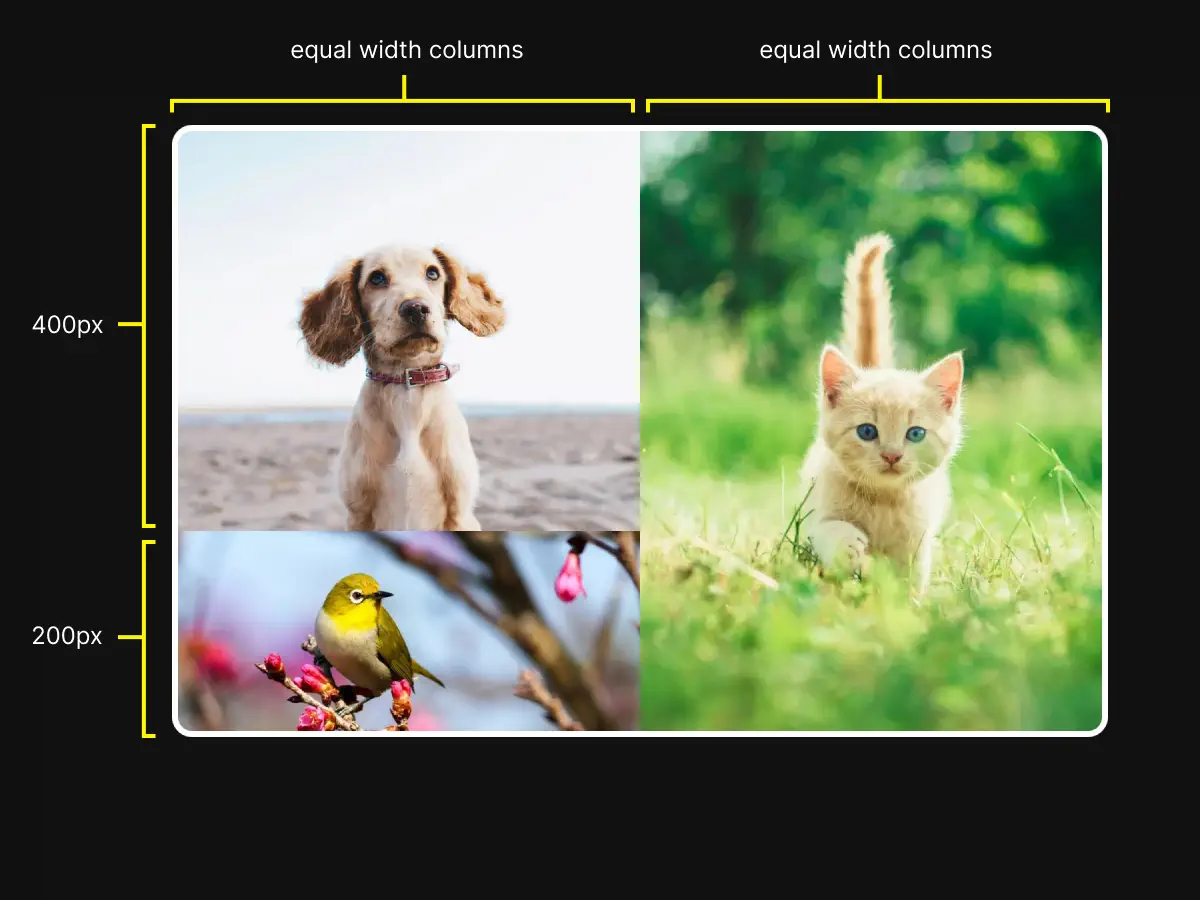
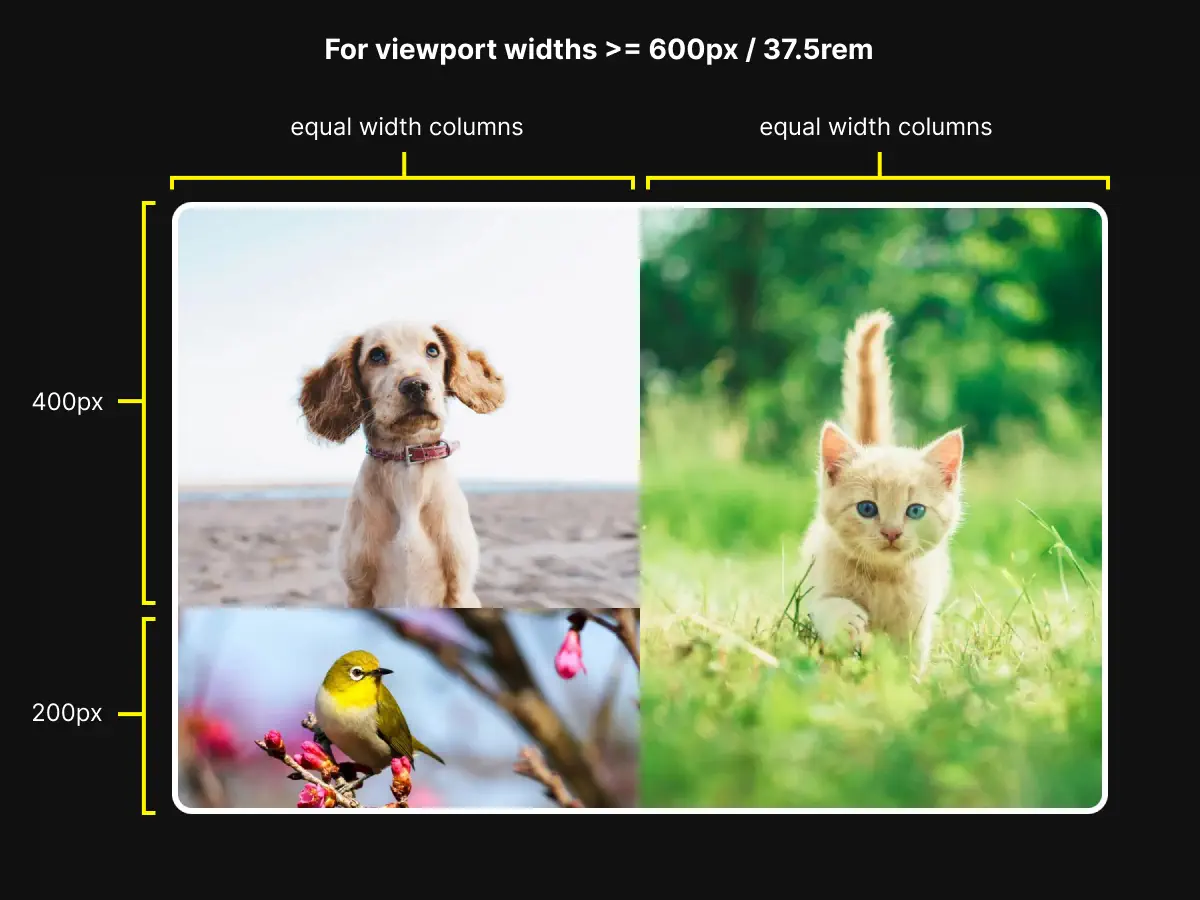
Practice 3 tweaks

diff --git a/practice-3/solution/style.css b/practice-3/solution/style.css
@@ -17,6 +17,7 @@ body {
 }
 
 img {
+  display: block;
   max-width: 100%;
   height: auto;
 }
@@ -37,34 +38,28 @@ img {
 .bento {
   display: grid;
   grid-template-rows: repeat(3, 200px);
-  grid-template-areas:
-    "cat"
-    "dog"
-    "bird";
+  grid-template-areas: "cat" "dog" "bird";
 
   @media (width >= 37.5rem) {
     grid-template-columns: repeat(2, 1fr);
-    grid-template-rows: repeat(3, 200px);
-    grid-template-areas:
-      "dog cat"
-      "dog cat"
-      "bird cat";
+    grid-template-rows: 400px 200px;
+    grid-template-areas: "dog cat" "bird cat";
   }
 
   img {
     height: 100%;
     object-fit: cover;
   }
-}
 
-.dog {
-  grid-area: dog;
-}
+  .cat {
+    grid-area: cat;
+  }
 
-.cat {
-  grid-area: cat;
-}
+  .dog {
+    grid-area: dog;
+  }
 
-.bird {
-  grid-area: bird;
+  .bird {
+    grid-area: bird;
+  }
 }

diff --git a/practice-3/problem/style.css b/practice-3/problem/style.css
@@ -17,6 +17,7 @@ body {
 }
 
 img {
+  display: block;
   max-width: 100%;
   height: auto;
 }
@@ -32,4 +33,33 @@ img {
   border: 6px solid #fff;
   border-radius: 20px;
   overflow: hidden;
+}
+
+.bento {
+  display: grid;
+  grid-template-rows: repeat(3, 200px);
+  grid-template-areas: "cat" "dog" "bird";
+
+  @media (width >= 37.5rem) {
+    grid-template-columns: repeat(2, 1fr);
+    grid-template-rows: 400px 200px;
+    grid-template-areas: "dog cat" "bird cat";
+  }
+
+  img {
+    height: 100%;
+    object-fit: cover;
+  }
+
+  .cat {
+    grid-area: cat;
+  }
+
+  .dog {
+    grid-area: dog;
+  }
+
+  .bird {
+    grid-area: bird;
+  }
 }

diff --git a/practice-3/problem/index.html b/practice-3/problem/index.html
@@ -17,9 +17,8 @@
       <img src="../dog.webp" alt="dog" class="dog" width="976" height="953">
       <img src="../bird.webp" alt="bird" class="bird" width="667" height="1000">
     </div>
+
   </section>
-
-
 
 </body>
 

diff --git a/practice-3/README1ST.md b/practice-3/README1ST.md
@@ -8,11 +8,13 @@ You shouldn't need to make any changes in the HTML, and you only need to worry a
 
 Mockups for how the final layout should look are in the "mockups" folder.
 
+Finished code is in the "solution" folder.
+
 ## Functional Requirements
 
 On mobile, the 3 images should be in 1 column, and each image is 200px tall.
 
-On desktop, the images will be in a bento layout, with 2 columns of equal width.
+On widths greater than 600px / 37.5rem, the images should be in a bento layout, with 2 columns of equal width.
 
 In the left column, the dog picture is on top and should be 400px tall. The bird picture below it should be 200px.
 
